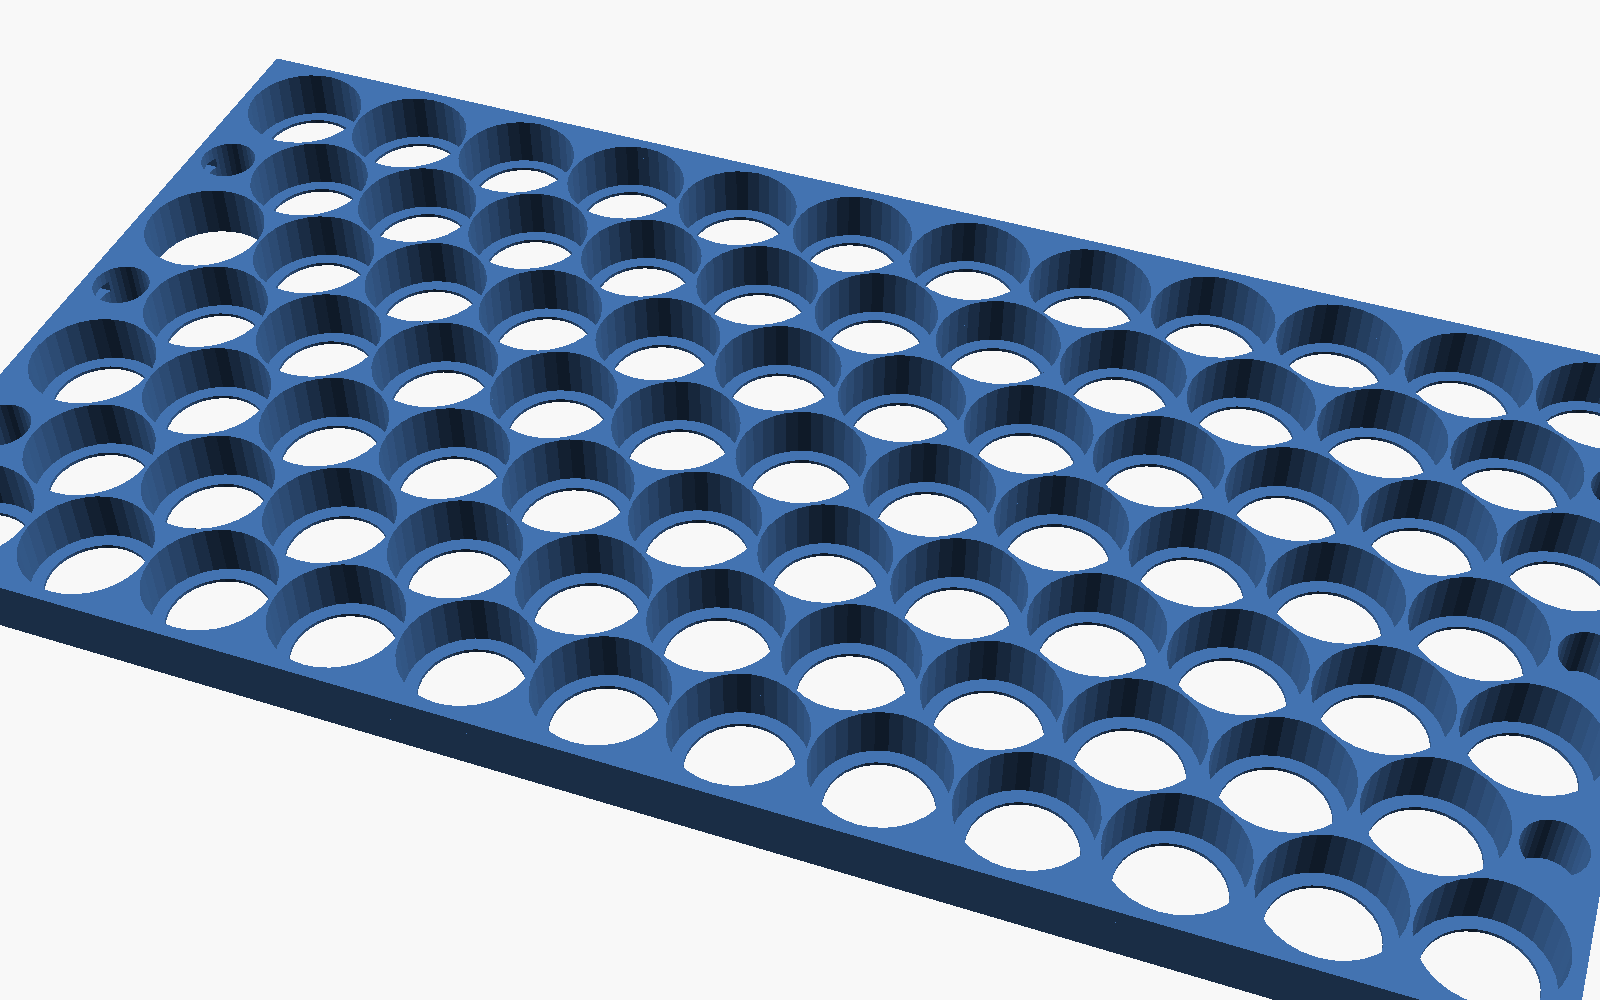
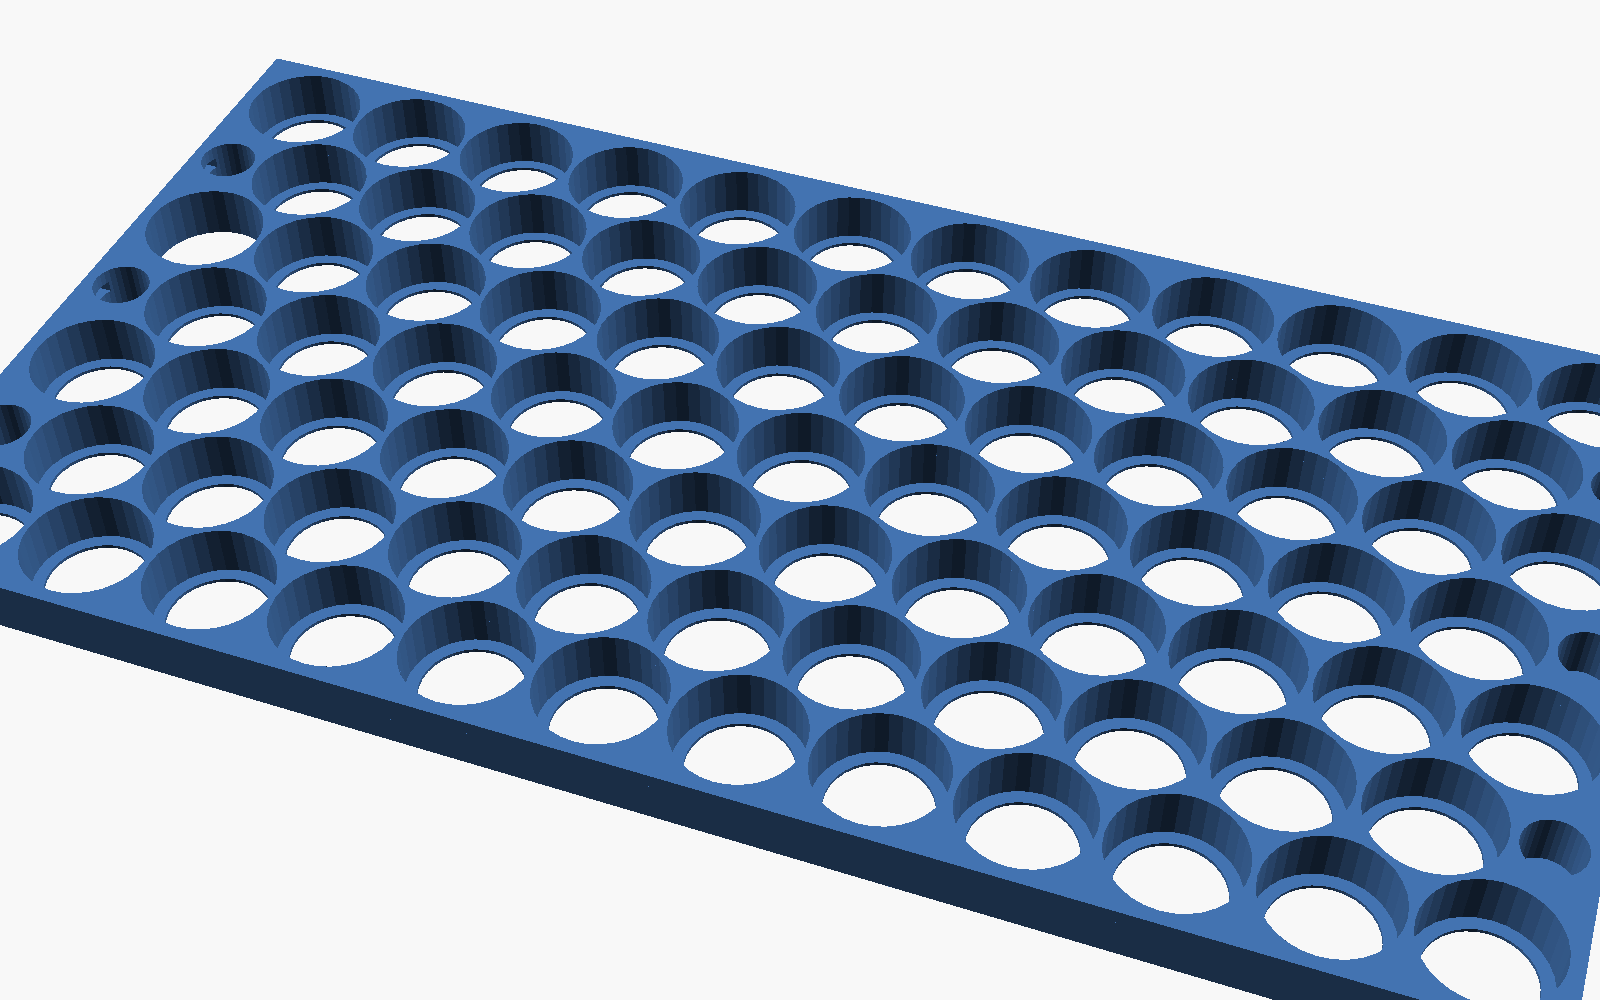
Docs: match the outline copper and cutting guide everywhere
- README: joint width is ~63 mm with outline copper (was the full-copper
  ~66 mm); roll plan image shown under the cutting guide, with the PDF
  page breaks marked; assembly steps point at the guide's 1:1 face maps.
- docs/copper_roll_plan.svg: dashed lines + "PDF page N" where each A4
  page of the cutting guide starts.
- docs/layout.md: no more "every copper edge is a straight line"; roll
  length is for both faces and points at the PDF.
- Generator header / docstrings: outline copper, PDF guide, roll_nest.json
  cache, cairocffi dependency; GUIDE_SEG shared by the PDF and the SVG.
- Re-rendered the holder-only images from the current model
  (render_bms_dock, render_holder_bottom were from an older holder).

Claude-Session: https://claude.ai/code/session_01NDVQLejGTm6eSJXc2tJ3NB

diff --git a/generator/layout.py b/generator/layout.py
@@ -6,8 +6,9 @@ Computes, from the envelope / pitch / screw-post parameters below:
   * the staggered (hex) cell grid                     -> 81 slots, 80 cells
   * which slot is left empty for the screw post       -> also used as wire chase
   * the 20s4p series groups (diagonal bands, see GROUP_PATTERN)
-  * the copper busbar pieces for the top and bottom face: rectangles (or an
-    L of two rectangles) only, and a cutting plan for a 100 mm copper roll
+  * the copper busbar pieces for the top and bottom face (cell outlines:
+    a ring round every cell + bridges, see COPPER_STYLE), nested on a
+    100 mm copper roll, and a printable A4 cutting guide
   * balance-tab and main-lead positions, punch hole over every cell
   * split line for printers whose bed is < 270 mm
 
@@ -19,9 +20,11 @@ and writes:
   docs/copper_bottom.svg     1:1 copper cutting template, bottom face
   docs/copper_cutlist.svg    one 1:1 drawing per distinct copper shape + count
   docs/copper_roll_plan.svg  all pieces nested on the copper roll (ROLL_W wide)
+  docs/copper_cutting_guide.pdf  the roll plan as A4 pages at 1:1 + face maps
   docs/layout.md             group / busbar / tab table, cut list
+  generator/roll_nest.json   cached roll nesting (redone when the pieces change)
 
-Run:  python3 generator/layout.py        (needs: pip install shapely)
+Run:  python3 generator/layout.py        (needs: pip install shapely cairocffi)
 
 Coordinates: x along the 270 mm length, x = 0 is the DIVIDER end.
              y across the 141 mm width, y = 0 is the deck side wall that the
@@ -66,6 +69,7 @@ RING_R = 10.0              # outline style: copper radius round a cell (welding 
 BRIDGE_W = 14.0            # outline style: width of the bridge between neighbouring cells
 NEST_ANGLES = 30           # roll plan: piece rotations tried, every N degrees
 NEST_TRIES = 40            # roll plan: shuffled piece orders tried (result cached)
+GUIDE_SEG = 255.0          # cutting guide: mm of roll per A4 page
 
 HERE = os.path.dirname(os.path.abspath(__file__))
 ROOT = os.path.dirname(HERE)
@@ -220,10 +224,11 @@ def lat_key(slot):
 
 
 def build_copper(pcs, face):
-    """Copper pieces = one straight bar per row of cells (an L / step shape
+    """Full copper pieces = one bar per row of cells (an L / step shape
     where a piece covers two rows). Each bar runs halfway to the next cell of
     another piece in that row, so every cell is fully covered; neighbouring
-    pieces are then pulled apart by one busbar gap. Empty end spots of the
+    pieces are then pulled apart by one busbar gap. With COPPER_STYLE = "outline"
+    each piece is then trimmed to its cell outlines (outline_copper). Empty end spots of the
     short rows go to the B-/B+ pieces next to them (wider lead tongues), the
     empty chase slot gets no copper (balance wires pass through it)."""
     owner = {}
@@ -846,6 +851,12 @@ def write_roll_svg(plan, length, top_pieces):
            '<text x="0" y="-9" font-size="4">Every piece of both faces, nested by its outline. Print '
            'docs/copper_cutting_guide.pdf (A4, 100 %), tape the pages together, lay it on the roll and cut.</text>',
            f'<rect x="0" y="0" width="{length:.1f}" height="{ROLL_W}" fill="#f7e3cf" stroke="#b5651d" stroke-width="0.6"/>']
+    for k in range(1, int(math.ceil(length / GUIDE_SEG))):     # cutting guide page breaks
+        out.append(f'<line x1="{k * GUIDE_SEG:.1f}" y1="-4" x2="{k * GUIDE_SEG:.1f}" y2="{ROLL_W + 4}" '
+                   'stroke="black" stroke-width="0.3" stroke-dasharray="2,1.5"/>')
+    for k in range(int(math.ceil(length / GUIDE_SEG))):
+        out.append(f'<text x="{(k + 0.5) * GUIDE_SEG:.1f}" y="-1.5" font-size="3.5" text-anchor="middle">'
+                   f'PDF page {k + 2}</text>')
     for pc, g in plan:
         face = "top" if pc in top_pieces else "bottom"
         out.append(svg_poly(g, fill="white", fill_opacity="0.6", stroke="black", stroke_width="0.35"))
@@ -872,7 +883,7 @@ def write_guide_pdf(plan, length, top_pieces, bot_pieces, assign, pol_up):
 
     W, H = 297.0, 210.0
     MM = 72 / 25.4
-    SEG = 255.0                                   # roll mm per page
+    SEG = GUIDE_SEG
     X_L, Y_R = 21.0, 58.0                         # roll start / roll top on the page
     pages = max(1, int(math.ceil(length / SEG)))
     surf = cairo.PDFSurface(os.path.join(ROOT, "docs", "copper_cutting_guide.pdf"), W * MM, H * MM)
@@ -1070,8 +1081,8 @@ def write_md(groups, assign, pol_up, top_pieces, bot_pieces, contact, types, max
             "Generated by `generator/layout.py`. Coordinates in mm, x = 0 at the divider, "
             "y = 0 at the side wall the screw post is measured from.", "",
             "## Copper cut list", "",
-            "Every copper edge is a straight line. Identical letters = identical pieces "
-            "(a mirrored copy is the same template flipped over).", "",
+            "Copper pieces follow the cell outlines (COPPER_STYLE). Identical letters = identical "
+            "pieces (a mirrored copy is the same template flipped over).", "",
             "| Shape | Count | Pieces |", "|---|---|---|"]
     for t in types:
         names = ", ".join(f'{"top" if m in top_pieces else "bottom"} B{m["tap"]}' for m in t["members"])
@@ -1080,7 +1091,8 @@ def write_md(groups, assign, pol_up, top_pieces, bot_pieces, contact, types, max
         if "lead_y" in pc:
             rows.append(f"| {pc['shape']} | 1 | top B{pc['tap']} + {pc['lead_w']:.0f} x {LEAD_LEN:.0f} mm lead tongue |")
     rows += ["", f"All pieces fit across a {ROLL_W:.0f} mm copper roll; one pack uses about "
-             f"{roll_len:.0f} mm of roll per copper layer (see copper_roll_plan.svg)."]
+             f"{roll_len:.0f} mm of roll for both faces (see copper_roll_plan.svg; print "
+             "copper_cutting_guide.pdf to cut it)."]
     rows += ["", f"Largest voltage step between neighbouring copper pieces on one face: "
              f"{maxdv} groups (~{maxdv * 4.2:.0f} V at full charge).", "",
              "## Series groups", "",

diff --git a/README.md b/README.md
@@ -50,7 +50,7 @@ The layout follows a proven build: **3-row blocks in rows 5–7, slanted bands i
 
 **No two consecutive groups ever sit end to end in a row.** That means **single-layer copper everywhere, no double copper**:
 
-* The narrowest copper bridge between two groups is **~66 mm**.
+* The narrowest copper bridge between two groups is **~63 mm** (cell-outline copper, below).
 * An end-to-end joint is only ~14 mm.
 
 | Part of the pack | Groups | Pattern |
@@ -92,6 +92,10 @@ The layout follows a proven build: **3-row blocks in rows 5–7, slanted bands i
   5. Leave the paper on until the piece is placed. Each label says the piece (B0–B20) and the face. Pages 6–7 are 1:1 maps of both faces showing where each piece goes.
 
   All 21 pieces are nested on the roll by their real outlines, turned in 30° steps and either side up, with 1 mm between cut lines. That leaves **~10 cm of the 1 m roll spare**.
+
+  ![copper roll plan](docs/copper_roll_plan.svg)
+
+  This is the whole roll as the PDF prints it. The dashed lines are where one A4 page ends and the next begins.
 * **Gaps:** neighbouring pieces have a 2.5 mm gap. The generator checks that no copper ever comes within 10 mm of another group's cell centre.
 
 **Other things to know about the layout:**
@@ -102,7 +106,7 @@ The layout follows a proven build: **3-row blocks in rows 5–7, slanted bands i
   * **Bottom face:** B1, B3 … B19. That's 10 pieces.
 * The balance tap number equals the copper piece number. Taps B0–B20 go to BMS balance pins 0–20 (B0 = B−, B20 = B+).
 * **Voltages:** neighbouring copper pieces are at most 18 groups apart (~76 V). The big steps are all along the line between rows 4 and 5, on the divider half of the pack. Lay fish paper over each face before wrapping, with an extra strip of kapton along the line between rows 4 and 5.
-* **No double copper:** every joint is a single layer. The weakest joints are in the 3-row blocks (5 cell contacts, ~66 mm of copper across).
+* **No double copper:** every joint is a single layer. The weakest joints are in the 3-row blocks (5 cell contacts, ~63 mm of copper across).
 
 To change the layout, edit `GROUP_PATTERN` in `generator/layout.py` and run it again (§10).
 
@@ -264,12 +268,12 @@ Then run `sh scad/export.sh`.
 2. Fit fish-paper rings on the positive ends.
 3. **Bottom face:**
    * Pre-solder the balance wires to the flaps of B1 … B19.
-   * Lay the punched copper pieces (see `docs/copper_bottom.svg`; it's drawn as seen from below).
+   * Lay the punched copper pieces. Page 7 of the cutting guide (or `docs/copper_bottom.svg`) shows where each one goes, drawn as seen from below.
    * Weld the nickel through the holes.
    * Tape the wires and route them into the chase.
 4. **Top face:**
    * Pre-solder the B− and B+ leads and the B2 … B18 balance wires.
-   * Lay the copper, weld the nickel, fold the tongues down and zip-tie the leads.
+   * Lay the copper (page 6 of the cutting guide, or `docs/copper_top.svg`), weld the nickel, fold the tongues down and zip-tie the leads.
 5. Measure each tap against B0 before plugging into the BMS. Each step should be ~3.6–4.2 V.
 6. Fish paper over both faces, then wrap the pack (foam + heat shrink). Make sure the controller is rated for **84 V** before connecting.
 

diff --git a/docs/layout.md b/docs/layout.md
@@ -4,7 +4,7 @@ Generated by `generator/layout.py`. Coordinates in mm, x = 0 at the divider, y =
 
 ## Copper cut list
 
-Every copper edge is a straight line. Identical letters = identical pieces (a mirrored copy is the same template flipped over).
+Copper pieces follow the cell outlines (COPPER_STYLE). Identical letters = identical pieces (a mirrored copy is the same template flipped over).
 
 | Shape | Count | Pieces |
 |---|---|---|
@@ -20,7 +20,7 @@ Every copper edge is a straight line. Identical letters = identical pieces (a mi
 | B- | 1 | top B0 + 36 x 35 mm lead tongue |
 | B+ | 1 | top B20 + 36 x 35 mm lead tongue |
 
-All pieces fit across a 100 mm copper roll; one pack uses about 902 mm of roll per copper layer (see copper_roll_plan.svg).
+All pieces fit across a 100 mm copper roll; one pack uses about 902 mm of roll for both faces (see copper_roll_plan.svg; print copper_cutting_guide.pdf to cut it).
 
 Largest voltage step between neighbouring copper pieces on one face: 18 groups (~76 V at full charge).
 
